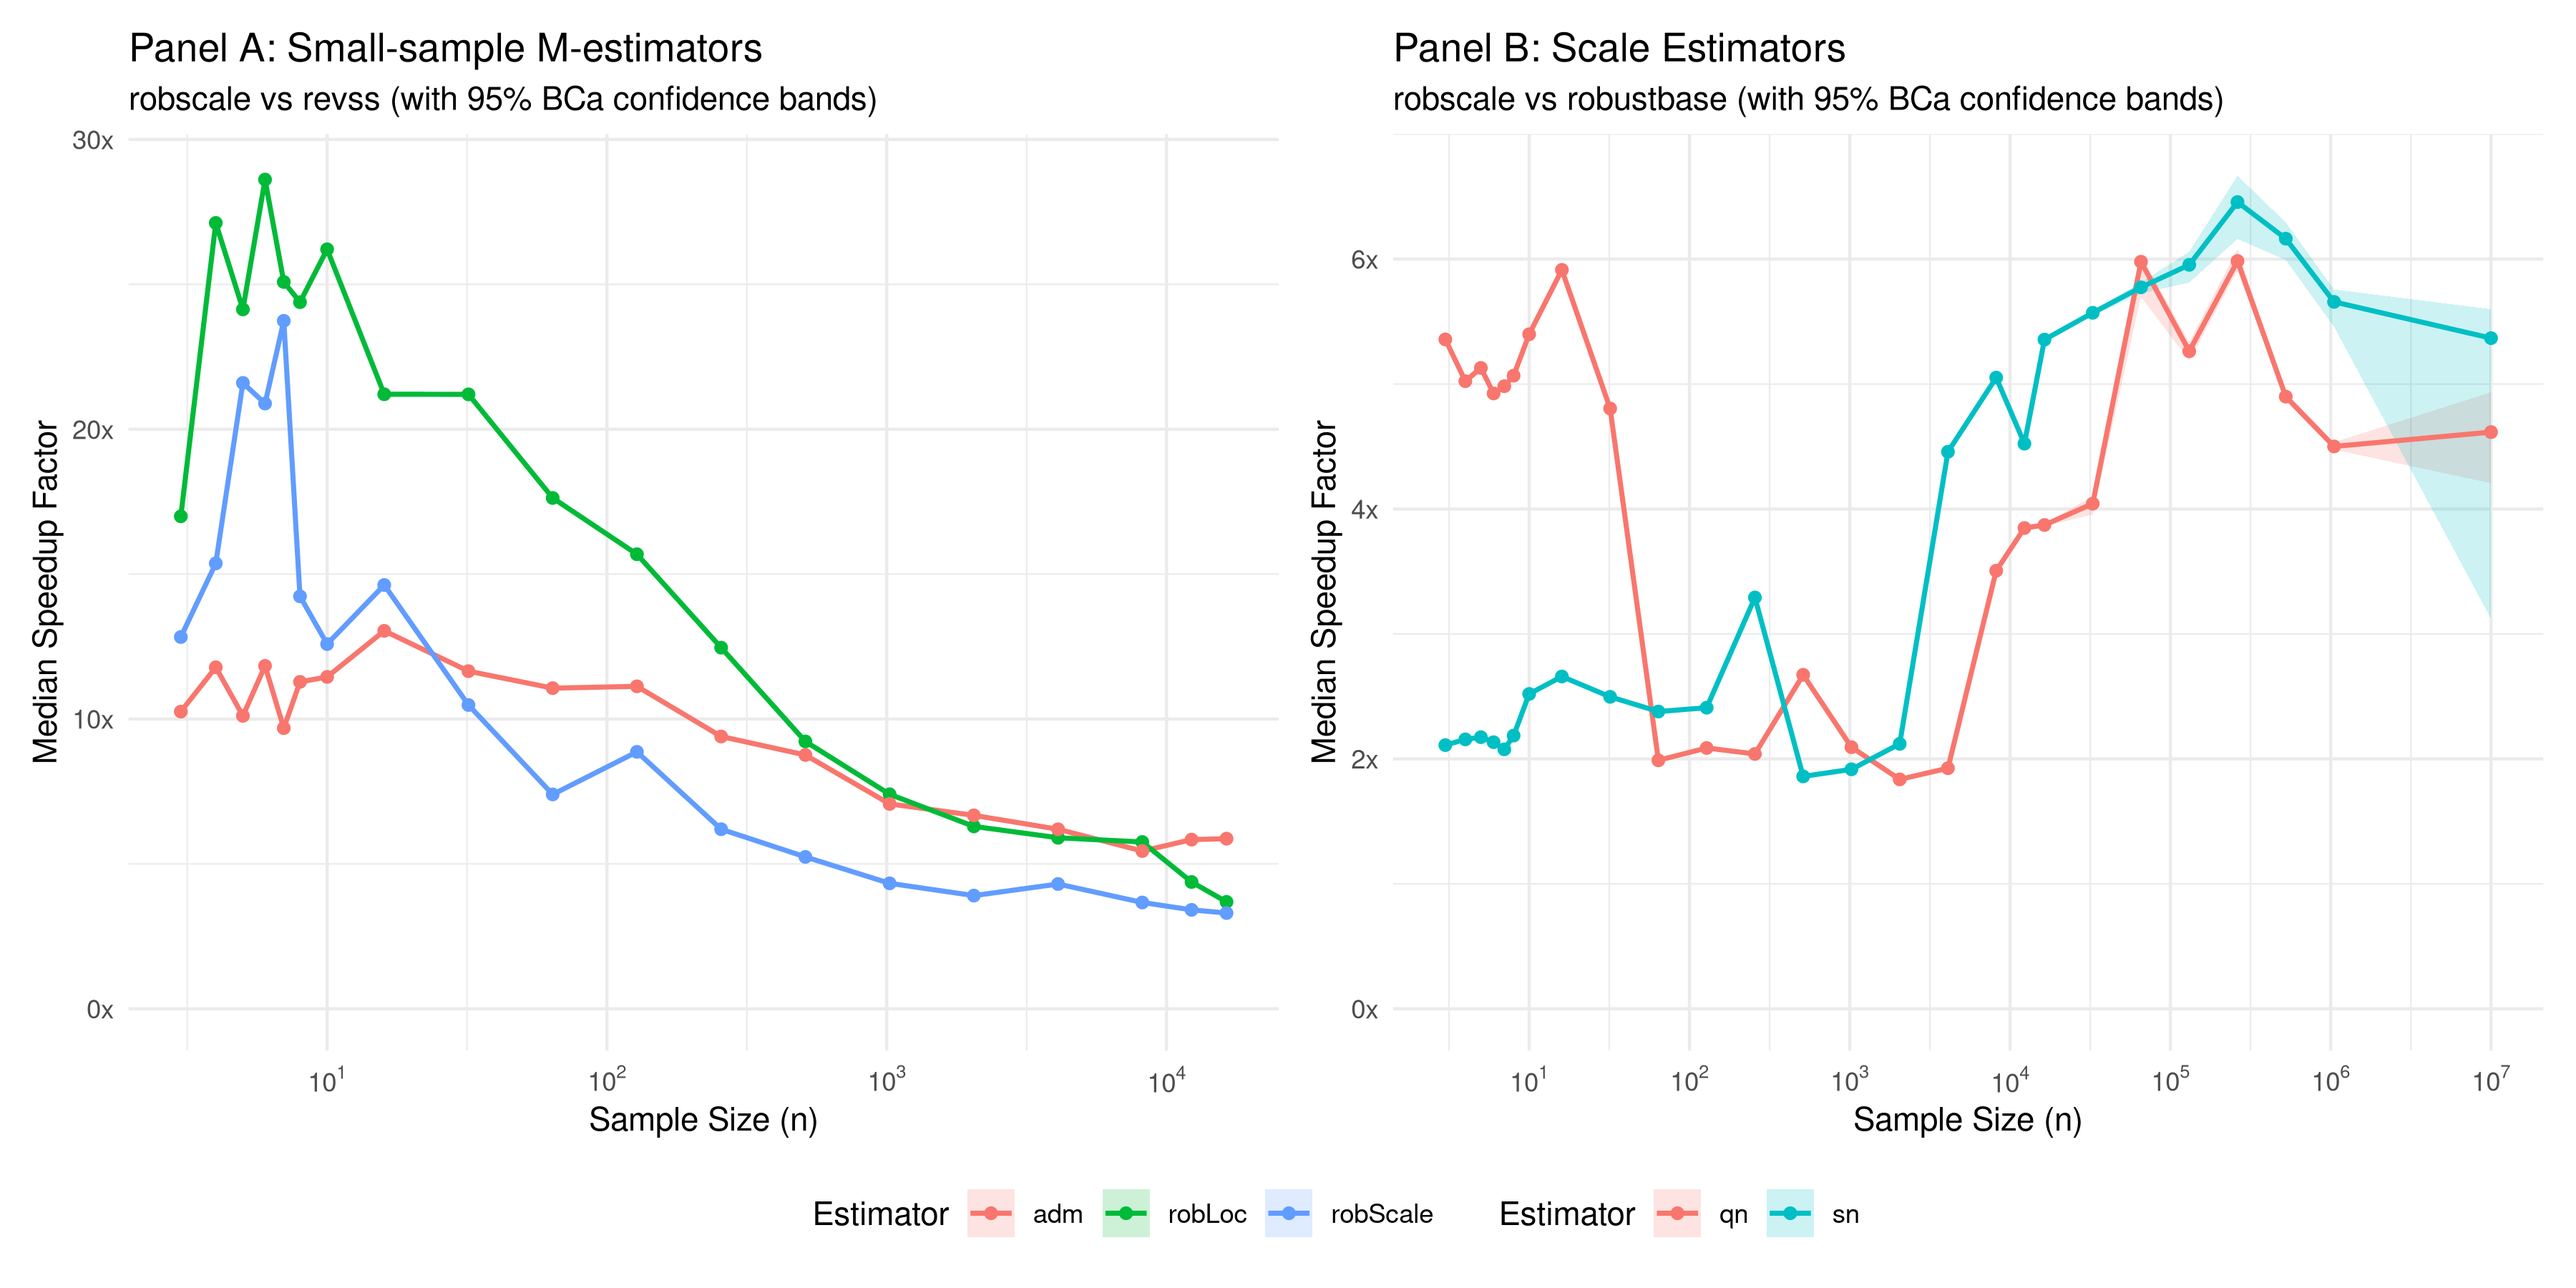
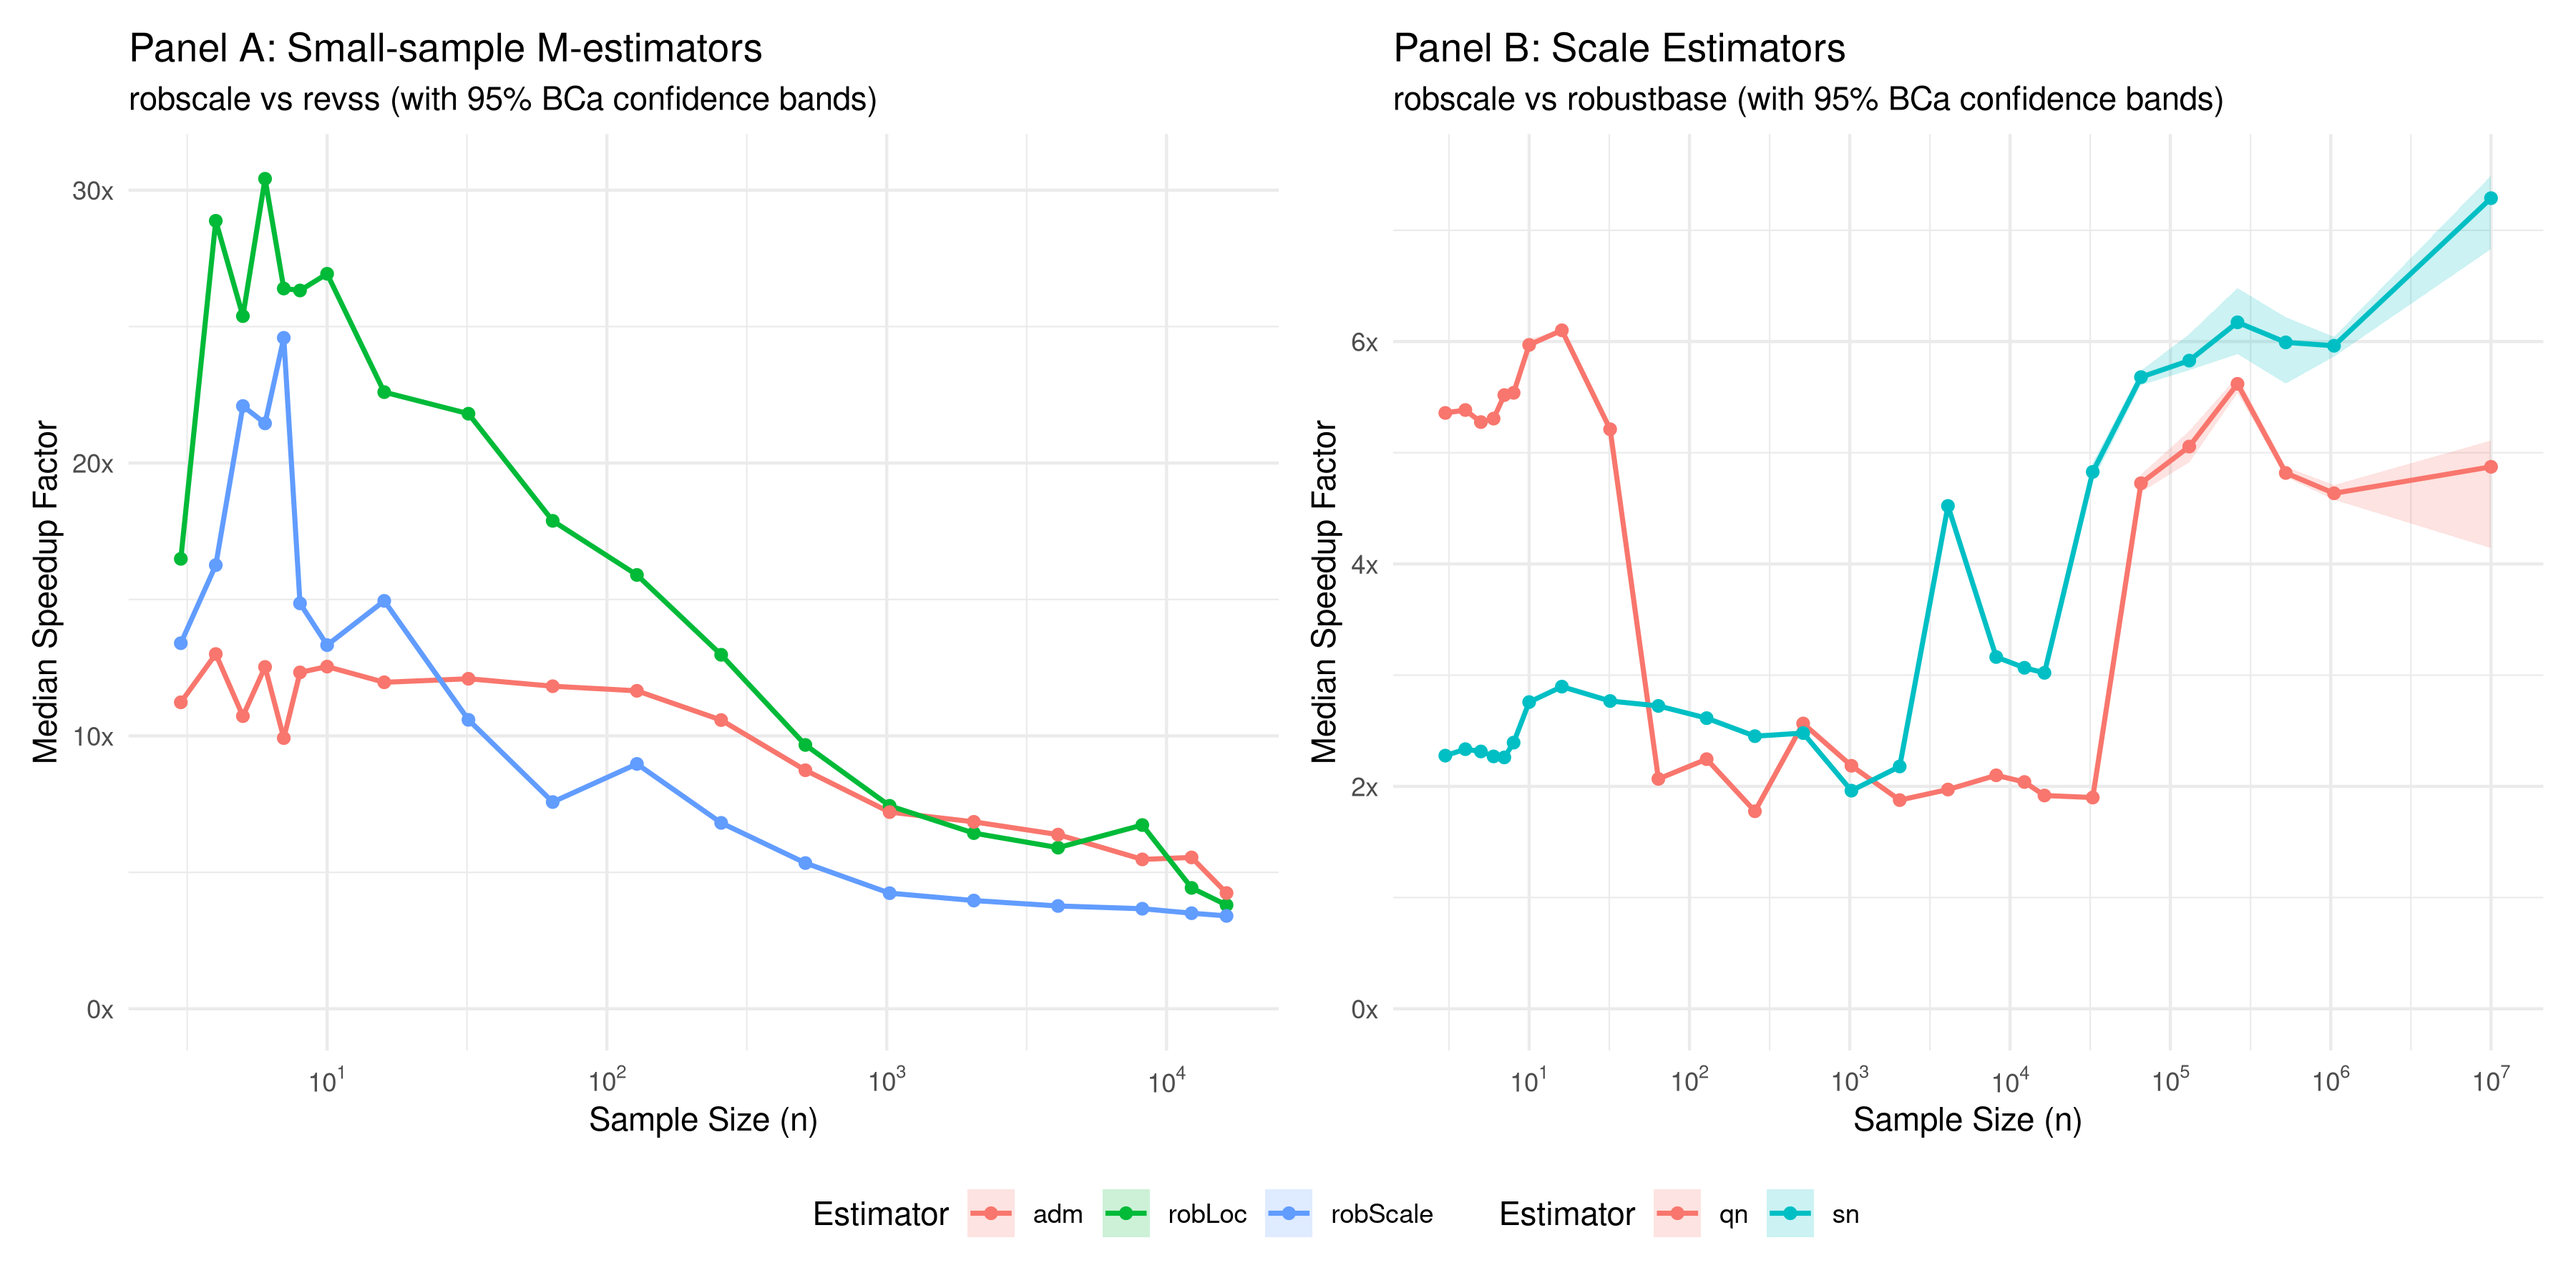
docs: update benchmarks and render README for version 0.1.6

diff --git a/README.md b/README.md
@@ -15,10 +15,10 @@ time-critical workflows.
 `robscale` resolves both bottlenecks. Its C++17 kernels replace
 interpreted R loops with SIMD-accelerated transcendental functions,
 Newton–Raphson iteration, and parallelized $O(n \log n)$ algorithms.
-Against `revss`, the package achieves **8.5–28.5×** speedups for the
+Against `revss`, the package achieves **9.9–30.4×** speedups for the
 small-sample M-estimators. Against `robustbase`, it achieves
-**1.8–6.3×** for $S_n$ and **1.7–6.0×** for $Q_n$ —with gains peaking
-near **6.3×** at $n = 10^7$ as TBB parallelism reduces the computational
+**2.0–7.3×** for $S_n$ and **1.8–6.1×** for $Q_n$ —with gains peaking
+near **7.3×** at $n = 10^7$ as TBB parallelism reduces the computational
 bottleneck for massive datasets.
 
 ## Installation
@@ -62,11 +62,11 @@ Table 1
 
 | Function | Purpose | ARE | Breakdown | Speedup vs revss | Speedup vs robustbase |
 |:---|:---|:---|:---|:---|:---|
-| `qn(x)` | $Q_n$ scale estimator | **82.3%** | 50% | — | **1.7x** \[1.7x, 1.7x\] to **6.0x** \[5.9x, 6.1x\] |
-| `sn(x)` | $S_n$ scale estimator | **58.2%** | 50% | — | **1.8x** \[1.8x, 1.8x\] to **6.3x** \[6.1x, 6.5x\] |
-| `robLoc(x)` | M-estimate of location | **41.3%** | 50% | **3.6x** \[3.6x, 3.6x\] to **28.5x** \[28.4x, 28.6x\] | — |
-| `robScale(x)` | M-estimate of scale | **60.5%** | 50% | **3.4x** \[3.4x, 3.4x\] to **23.6x** \[23.5x, 23.6x\] | — |
-| `adm(x)` | Average distance to median | **88.3%** | $1/n$ | **5.3x** \[5.3x, 5.3x\] to **12.1x** \[12.0x, 12.2x\] | — |
+| `qn(x)` | $Q_n$ scale estimator | **82.3%** | 50% | — | **1.8x** \[1.8x, 1.8x\] to **6.1x** \[6.1x, 6.1x\] |
+| `sn(x)` | $S_n$ scale estimator | **58.2%** | 50% | — | **2.0x** \[2.0x, 2.0x\] to **7.3x** \[6.8x, 7.5x\] |
+| `robLoc(x)` | M-estimate of location | **41.3%** | 50% | **3.8x** \[3.8x, 3.8x\] to **30.4x** \[30.4x, 30.5x\] | — |
+| `robScale(x)` | M-estimate of scale | **60.5%** | 50% | **3.4x** \[3.4x, 3.4x\] to **24.6x** \[24.6x, 24.6x\] | — |
+| `adm(x)` | Average distance to median | **88.3%** | $1/n$ | **4.2x** \[4.2x, 4.3x\] to **13.0x** \[12.9x, 13.0x\] | — |
 
 </div>
 
@@ -197,8 +197,9 @@ Computes the $Q_n$ estimator of scale (Rousseeuw & Croux, 1993). Unlike
 M-estimators, $Q_n$ requires no location estimate and achieves a 50%
 breakdown point. `robscale` implements $Q_n$ with a tiered strategy: a
 brute-force exact algorithm for small $n$ (below `qn_exact_threshold`)
-and a cache-aware parallelized Johnson-style algorithm for larger
-samples.
+and a parallelized Johnson-style algorithm for larger samples, with
+parallelism thresholds derived from the detected per-core L2 cache size
+at runtime.
 
 ``` r
 qn(c(1, 2, 3, 5, 7, 8))
@@ -439,11 +440,11 @@ Table 2
 
 |      $n$ | `robustbase::Qn` | `robscale::qn` | Speedup  |
 |---------:|:-----------------|:---------------|:---------|
-|        8 | 9.4 µs           | 1.8 µs         | **5.2x** |
-|       64 | 14.2 µs          | 7.1 µs         | **2.0x** |
-|     1024 | 466.0 µs         | 220.1 µs       | **1.9x** |
-|    65536 | 56972.3 µs       | 9584.4 µs      | **5.9x** |
-| 10000000 | 10.5 s           | 2.6 s          | **4.0x** |
+|        8 | 9.4 µs           | 1.7 µs         | **5.5x** |
+|       64 | 14.2 µs          | 6.9 µs         | **2.1x** |
+|     1024 | 466.0 µs         | 213.0 µs       | **2.2x** |
+|    65536 | 56972.3 µs       | 12168.7 µs     | **4.7x** |
+| 10000000 | 10.5 s           | 2.2 s          | **4.9x** |
 
 </div>
 
@@ -453,11 +454,11 @@ Table 3
 
 |      $n$ | `robustbase::Sn` | `robscale::sn` | Speedup  |
 |---------:|:-----------------|:---------------|:---------|
-|        8 | 4.0 µs           | 1.8 µs         | **2.3x** |
-|       64 | 5.4 µs           | 2.1 µs         | **2.6x** |
-|     1024 | 35.0 µs          | 19.0 µs        | **1.8x** |
-|    65536 | 6593.5 µs        | 1152.0 µs      | **5.8x** |
-| 10000000 | 1.5 s            | 0.3 s          | **5.8x** |
+|        8 | 4.0 µs           | 1.7 µs         | **2.4x** |
+|       64 | 5.4 µs           | 2.0 µs         | **2.7x** |
+|     1024 | 35.0 µs          | 17.9 µs        | **2.0x** |
+|    65536 | 6593.5 µs        | 1150.1 µs      | **5.7x** |
+| 10000000 | 1.5 s            | 0.2 s          | **7.3x** |
 
 </div>
 
@@ -470,8 +471,8 @@ efficient algorithm based on sample size and hardware capabilities:
 graph TD
     A[R API: qn, sn, robLoc, robScale] --> B{Dispatch Layer}
     B -- "n <= 16" --> C[Sorting Networks]
-    B -- "16 < n < 32768" --> D[Highly optimized scalar C++]
-    B -- "n >= 32768" --> E[Parallel multi-threaded kernels]
+    B -- "16 < n < threshold" --> D[Highly optimized scalar C++]
+    B -- "n >= threshold" --> E[Parallel multi-threaded kernels]
     subgraph "Hardware Acceleration"
         G[AVX2 / AVX512 / NEON]
         H[Apple Accelerate]
@@ -486,8 +487,7 @@ graph TD
 (the M-estimators `robLoc`, `robScale`, and `adm`, compared against
 `revss`) and general-size samples (the scale estimators `qn` and `sn`,
 compared against `robustbase`). Figure 1 summarizes both comparisons on
-Linux (Ryzen 9 5900HX, CRAN-compatible build with no ROBSCALE_FAST
-optimizations).
+Linux (Ryzen 9 5900HX, source build).
 
 <div id="fig-benchmarks">
 
@@ -502,12 +502,12 @@ compares `qn` and `sn` against `robustbase`.
 **Benchmark environment:** - **Machine:** AMD Ryzen 9 5900HX with Radeon
 Graphics - **CPU Governor:** powersave - **OS:** Arch Linux - **R
 version:** R version 4.5.3 (2026-03-11) - **Package version:** 0.1.6 -
-**SLEEF (Optimized Build):** Detected - **Date:** 2026-03-13
+**SLEEF:** Detected - **Date:** 2026-03-13
 
 ### Small-sample M-estimators vs. `revss` (Panel A)
 
 In the target regime ($n \le 20$), `robscale` outperforms `revss` by
-**8.5–28.5×**. Drivers include:
+**9.9–30.4×**. Drivers include:
 
 - Transitioning from interpreted R to compiled C++17.
 - Achieving quadratic convergence with Newton–Raphson (3 iterations vs
@@ -515,7 +515,7 @@ In the target regime ($n \le 20$), `robscale` outperforms `revss` by
 - Eliminating heap allocation via stack-allocated memory arenas.
 - Deploying optimal sorting networks for $n \le 16$.
 
-Even at $n = 16{,}384$, the gains remain **3.4–5.8×** because the
+Even at $n = 16{,}384$, the gains remain **3.4–4.2×** because the
 interpreter overhead of `revss` scales with the number of Newton–Raphson
 iterations, not just vector length.
 
@@ -525,63 +525,25 @@ For $Q_n$ and $S_n$, the performance story follows two regimes separated
 by the parallelism threshold:
 
 **Small to medium samples ($n \le 10^3$).** `robscale` leads by
-**1.7–6.0×**. The gain comes primarily from the avoidance of R dispatch
+**1.8–6.1×**. The gain comes primarily from the avoidance of R dispatch
 overhead and the use of stack memory. For $Q_n$ at $n = 8$, the
-brute-force exact algorithm completes in 1.8 µs vs. 9.4 µs for
-`robustbase` — a **5.2×** edge.
+brute-force exact algorithm completes in 1.7 µs vs. 9.4 µs for
+`robustbase` — a **5.5×** edge.
 
-**Large samples ($n \ge 10^4$).** The advantage grows to **3.7–6.3×** as
-TBB parallelism engages. At $n = 10^7$, `qn` runs in 2.6 s vs. 10.5 s
-for `robustbase::Qn` (**4.0×**), and `sn` runs in 0.3 s vs. 1.5 s
-(**5.8×**). Parallel efficiency is bounded by Amdahl’s Law and memory
+**Large samples ($n \ge 10^4$).** The advantage grows to **1.9–7.3×** as
+TBB parallelism engages. At $n = 10^7$, `qn` runs in 2.2 s vs. 10.5 s
+for `robustbase::Qn` (**4.9×**), and `sn` runs in 0.2 s vs. 1.5 s
+(**7.3×**). Parallel efficiency is bounded by Amdahl’s Law and memory
 bandwidth; while the multi-threaded kernels provide substantial gains
 for massive datasets, speedups do not scale linearly with thread count.
 
-> \[!IMPORTANT\] **Peak Performance Note**: To unlock maximum
-> hardware-specific speedups (including SIMD auto-discovery and
-> microbenchmark-tuned thresholds), install the package from source with
-> the `ROBSCALE_FAST=1` environment variable set:
->
-> **From the terminal:**
->
-> ``` bash
-> ROBSCALE_FAST=1 R CMD INSTALL robscale
-> ```
->
-> **From an R session (RStudio):**
->
-> ``` r
-> Sys.setenv(ROBSCALE_FAST = "1")
-> # Install from CRAN (compiling from source for peak performance)
-> install.packages("robscale", type = "source")
->
-> # Or install from GitHub (requires remotes/devtools)
-> remotes::install_github("davdittrich/robscale")
-> ```
->
-> Default CRAN binaries use conservative, portable settings to ensure
-> compatibility across all architectures.
-
-### Comparison: Optimized vs. Unoptimized builds
-
-The following figure explicitly compares the performance of `robscale`
-when compiled with peak optimizations (`ROBSCALE_FAST=1`) against the
-unoptimized (portable) version of the package across all sample sizes.
-
-<div id="fig-fast-slow">
-
-![](benchmarks/fast_slow_fig.png)
-
-Figure 2: Comparison of optimized (`ROBSCALE_FAST=1`) vs. unoptimized
-builds.
-
-</div>
-
-The gains in the optimized build come primarily from SIMD vectorization
-(AVX2/AVX512/Accelerate) and aggressive transcendental function
-expansion (using the SLEEF library for vectorized math). On large
-samples, the optimized version also benefits from tuned threading
-thresholds that more effectively leverage TBB.
+> \[!NOTE\] **Source builds recommended.** Installing from source
+> (`install.packages("robscale", type = "source")`) enables the
+> `configure` script to detect SIMD capabilities (AVX2/FMA on x86_64,
+> NEON on ARM64) and link platform-specific libraries (Apple Accelerate,
+> SLEEF). Pre-built CRAN binaries use portable settings and may not
+> include these optimizations. Parallelism thresholds are derived from
+> the detected per-core L2 cache size at runtime on all platforms.
 
 ## Numerical equivalence
 
